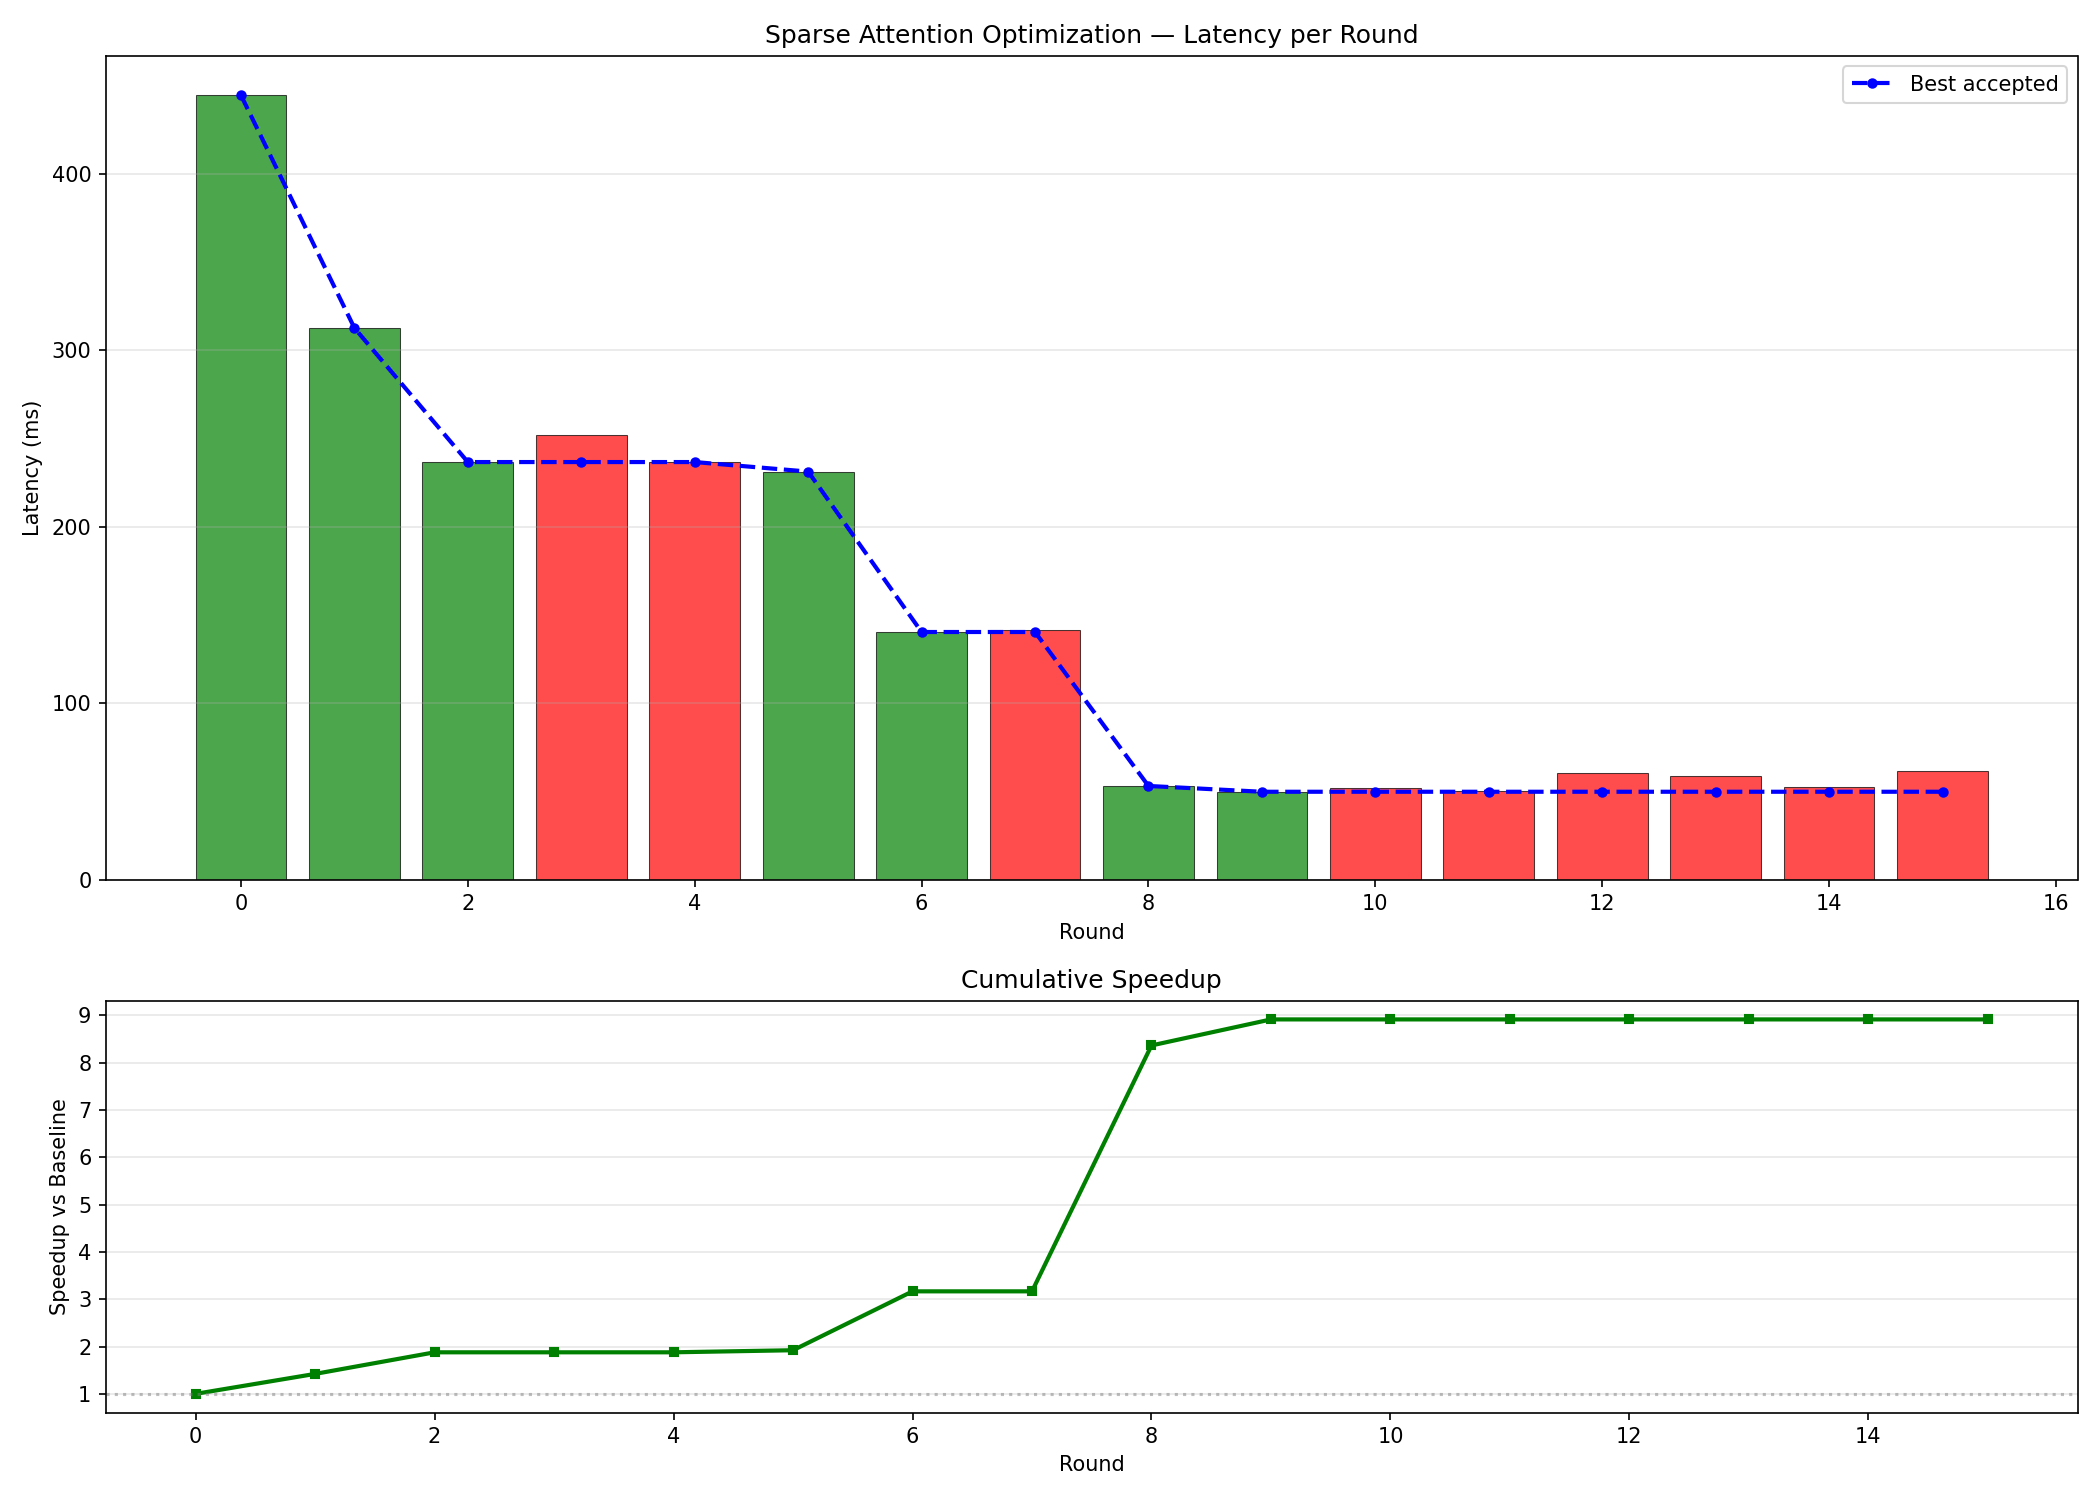
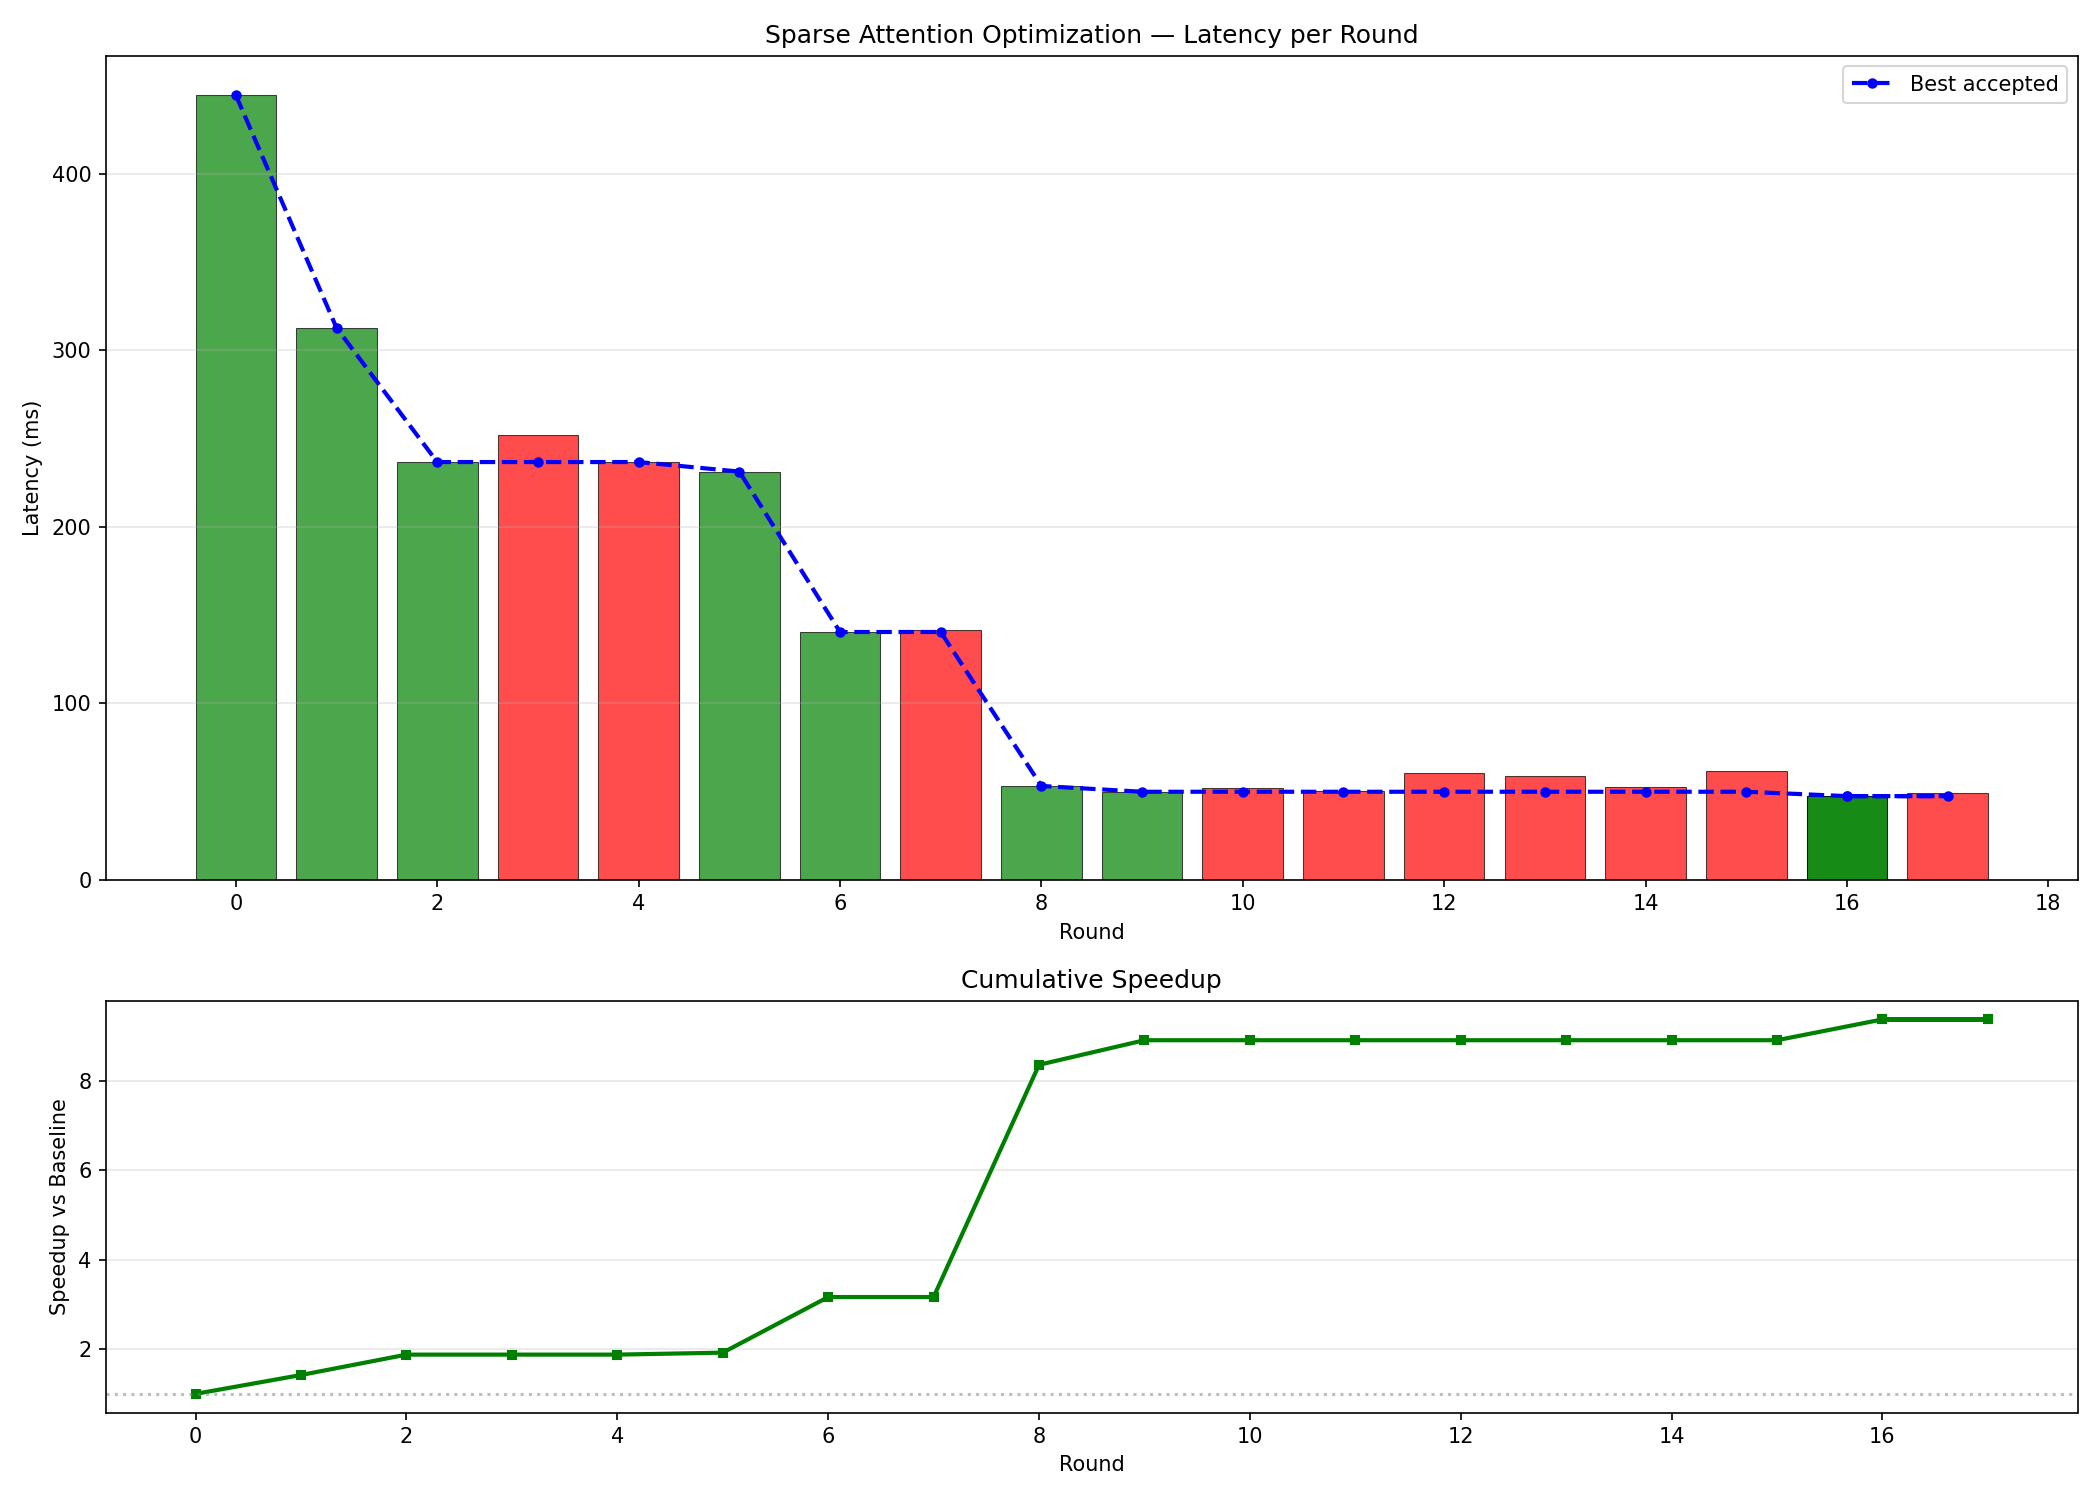
Update perf log with final R17 summary

diff --git a/notes/perf_log.md b/notes/perf_log.md
@@ -46,10 +46,13 @@ online softmax is heavy on instruction overhead relative to the small D=64 compu
 | 12 | BN=64 | 60.4 | - | REJECT |
 | 13 | Two-pass softmax | 58.8 | - | REJECT |
 
-**Current best**: 49.9 ms (16.54 TFLOPS, 14.4% MFU)
+**Current best**: 47.4 ms (17.40 TFLOPS, 15.1% MFU) — R16 vectorized loads
 **Key breakthroughs**: WMMA tensor cores (R5-R6), fragment O accumulation with runtime
-mapping (R8), larger BLOCK_M for K/V sharing (R9).
+mapping (R8), larger BLOCK_M for K/V sharing (R9), vectorized float4 loads (R16).
 
-Remaining gap vs Triton (20.4ms): ~2.4x. Main bottleneck is per-tile softmax overhead
-(smem round-trips for S and P, expf calls, shuffle reductions).
+| 14-17 | Various (NWARPS, in-reg softmax, etc.) | - | - | ALL REJECT |
+| 16 | Vectorized K/V float4 loads | **47.4** | **9.38x** | **ACCEPT** |
+
+Remaining gap vs Triton (20.4ms): ~2.3x. Bottleneck: per-tile softmax overhead, 67 regs
+limiting to 3 blocks/SM (37.5% occupancy), and smem round-trips for S and P.
 
